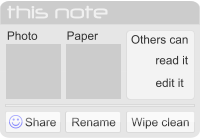
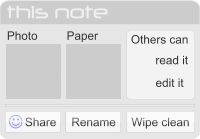
Added 1 pixel

diff --git a/app/public/styles/notex.css b/app/public/styles/notex.css
@@ -154,7 +154,7 @@ img {
   top: 170px;
   left: 13px;
   width: 200px;
-  height: 138px;
+  height: 139px;
 }
 
 #notebox #photo {
@@ -195,7 +195,7 @@ img {
 #notelist {
   position: absolute;
   display: none;
-  top: 320px;
+  top: 322px;
   left: 13px;
   width: 200px;
 }

diff --git a/app/views/en/layouts/notepad.html.php b/app/views/en/layouts/notepad.html.php
@@ -39,7 +39,7 @@
   <div id="paper" onclick="notex.notebox.select('paper')"></div>
   <div id="canread" onclick="notex.notebox.toggle('readers')"></div>
   <div id="canedit" onclick="notex.notebox.toggle('editors')"></div>
-  <img src="/images/notebox.png" id="styleimg" width="200" height="138" usemap="#notemap" alt="notebox" />
+  <img src="/images/notebox.png" id="styleimg" width="200" height="139" usemap="#notemap" alt="notebox" />
   <map name="notemap">
     <area shape="rect" coords="5,111,60,133" onclick="notex.notebox.share()" alt="share" />
     <area shape="rect" coords="65,111,120,133" onclick="notex.notebox.rename()" alt="rename" />
